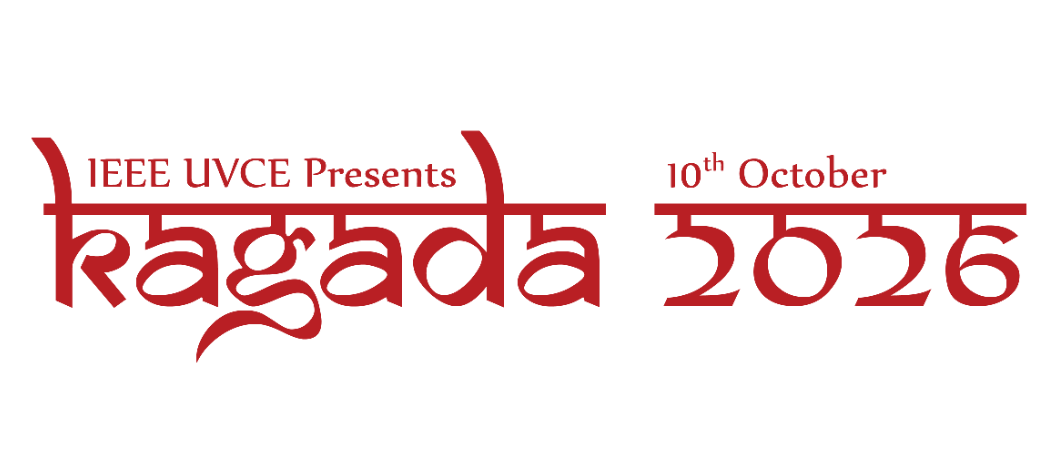
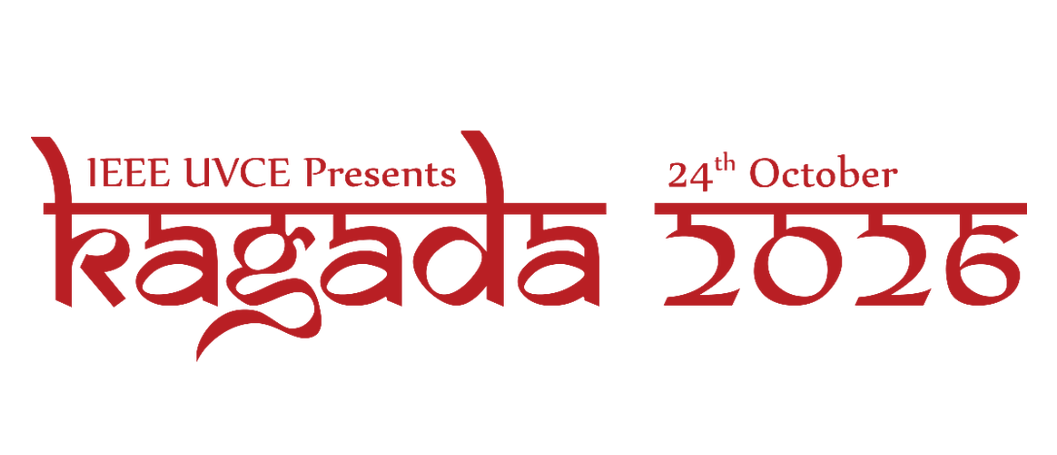
fix(event): reschedule KAGADA to 24th October 2026, update navbar header and countdown timer

diff --git a/app/api/chat/route.ts b/app/api/chat/route.ts
@@ -12,7 +12,7 @@ YOUR STRICT DIRECTIVES:
 
 KAGADA 2026 COMPREHENSIVE KNOWLEDGE BASE:
 - Event Name: KAGADA 2026 (22nd Annual National-Level Technical Student Conference)
-- Provisional Event Date: 10th October, 2026
+- Provisional Event Date: 24th October, 2026
 - Venue: University Visvesvaraya College of Engineering (UVCE), K.R. Circle, Bengaluru, Karnataka 560001
 - Organizer: IEEE UVCE (Institute of Electrical and Electronics Engineers - UVCE Student Branch)
 - Total Prize Pool: Overall ₹40,000 cash prizes distributed across Paper, Poster, and Project presentations (provisional).
@@ -149,10 +149,10 @@ export async function POST(req: Request) {
 
     // Fallback: Local Instant KAGADA 2026 Knowledge Engine
     const lastUserMsgLower = userMessage.toLowerCase();
-    let localReply = "KAGADA 2026 is the 22nd Annual National-Level Technical Student Conference conducted by IEEE UVCE on 10th October, 2026 at UVCE KR Circle, Bengaluru. We have 3 tracks: Paper, Poster, and Project presentations with an overall ₹40,000 total prize pool.";
+    let localReply = "KAGADA 2026 is the 22nd Annual National-Level Technical Student Conference conducted by IEEE UVCE on 24th October, 2026 at UVCE KR Circle, Bengaluru. We have 3 tracks: Paper, Poster, and Project presentations with an overall ₹40,000 total prize pool.";
 
     if (lastUserMsgLower.includes("when") || lastUserMsgLower.includes("date") || lastUserMsgLower.includes("time")) {
-      localReply = "The provisional date for KAGADA 2026 is 10th October, 2026 at UVCE, KR Circle, Bengaluru.";
+      localReply = "The provisional date for KAGADA 2026 is 24th October, 2026 at UVCE, KR Circle, Bengaluru.";
     } else if (lastUserMsgLower.includes("where") || lastUserMsgLower.includes("venue") || lastUserMsgLower.includes("location") || lastUserMsgLower.includes("map")) {
       localReply = "KAGADA 2026 will take place at University Visvesvaraya College of Engineering (UVCE), K.R. Circle, Bengaluru, Karnataka 560001.";
     } else if (lastUserMsgLower.includes("prize") || lastUserMsgLower.includes("money") || lastUserMsgLower.includes("reward") || lastUserMsgLower.includes("cash")) {
@@ -171,7 +171,7 @@ export async function POST(req: Request) {
   } catch (error) {
     console.error("AI Chat Route Error:", error);
     return NextResponse.json(
-      { reply: "KAGADA 2026 is provisionally scheduled for 10th October 2026 at UVCE, KR Circle, Bengaluru. Feel free to ask about tracks, prize pool, or venue details.", model: "Error Fallback" },
+      { reply: "KAGADA 2026 is provisionally scheduled for 24th October 2026 at UVCE, KR Circle, Bengaluru. Feel free to ask about tracks, prize pool, or venue details.", model: "Error Fallback" },
       { status: 200 }
     );
   }

diff --git a/components/sections/AboutSection.tsx b/components/sections/AboutSection.tsx
@@ -107,7 +107,7 @@ function renderAboutCard(item: CardStackItem) {
           {/* Left Text Column */}
           <div className="lg:col-span-7 font-jakarta text-xs sm:text-sm lg:text-base text-slate-900/90 leading-relaxed font-medium space-y-1.5 sm:space-y-2.5">
             <p>
-              <strong className="font-extrabold text-slate-950">KAGADA</strong> is our esteemed <strong className="font-bold text-slate-950">Annual National-Level Technical Student Conference</strong>, showcasing <strong className="font-bold text-slate-950">Paper, Poster and Project Presentations</strong>. Its 22nd edition is set for <strong className="font-bold text-slate-950">October 10, 2026</strong>. At IEEE UVCE, we are dedicated to expanding technical knowledge beyond the classroom. KAGADA, recognized with the <strong className="font-bold text-slate-950">Darrel Chong Student Activity Award</strong> in both 2016 and 2019, aims to inspire students to pursue research during their undergraduate studies. This conference provides an engaging platform for motivated students to <strong className="font-bold text-slate-950">sharpen their technical skills, improve their presentation abilities and share innovative ideas</strong>.
+              <strong className="font-extrabold text-slate-950">KAGADA</strong> is our esteemed <strong className="font-bold text-slate-950">Annual National-Level Technical Student Conference</strong>, showcasing <strong className="font-bold text-slate-950">Paper, Poster and Project Presentations</strong>. Its 22nd edition is set for <strong className="font-bold text-slate-950">October 24, 2026</strong>. At IEEE UVCE, we are dedicated to expanding technical knowledge beyond the classroom. KAGADA, recognized with the <strong className="font-bold text-slate-950">Darrel Chong Student Activity Award</strong> in both 2016 and 2019, aims to inspire students to pursue research during their undergraduate studies. This conference provides an engaging platform for motivated students to <strong className="font-bold text-slate-950">sharpen their technical skills, improve their presentation abilities and share innovative ideas</strong>.
             </p>
             <p className="text-slate-800">
               Additionally, KAGADA features initiatives like &quot;<strong className="font-bold text-slate-950">Ottige Kaliyona</strong>,&quot; which teaches government school students to utilize technology and &quot;<strong className="font-bold text-slate-950">Food For Cause</strong>,&quot; a charitable project where profits from a food stall are donated to an orphanage.

diff --git a/app/layout.tsx b/app/layout.tsx
@@ -38,7 +38,7 @@ export const metadata: Metadata = {
   metadataBase: new URL("https://kagada2026.live"),
   title: "KAGADA 2026",
   description:
-    "What is KAGADA and when is it? KAGADA is an Annual National-Level Technical Student Conference conducted by IEEE UVCE. It will be held on 10th October, 2026 at UVCE, Bengaluru.",
+    "What is KAGADA and when is it? KAGADA is an Annual National-Level Technical Student Conference conducted by IEEE UVCE. It will be held on 24th October, 2026 at UVCE, Bengaluru.",
   keywords: [
     "KAGADA",
     "KAGADA 2026",
@@ -53,7 +53,7 @@ export const metadata: Metadata = {
   openGraph: {
     title: "KAGADA 2026",
     description:
-      "What is KAGADA and when is it? KAGADA is an Annual National-Level Technical Student Conference conducted by IEEE UVCE. It will be held on 10th October, 2026 at UVCE, Bengaluru.",
+      "What is KAGADA and when is it? KAGADA is an Annual National-Level Technical Student Conference conducted by IEEE UVCE. It will be held on 24th October, 2026 at UVCE, Bengaluru.",
     url: "https://kagada2026.live",
     siteName: "KAGADA 2026",
     images: [
@@ -81,7 +81,7 @@ export const metadata: Metadata = {
     card: "summary_large_image",
     title: "KAGADA 2026",
     description:
-      "What is KAGADA and when is it? KAGADA is an Annual National-Level Technical Student Conference conducted by IEEE UVCE. It will be held on 10th October, 2026 at UVCE, Bengaluru.",
+      "What is KAGADA and when is it? KAGADA is an Annual National-Level Technical Student Conference conducted by IEEE UVCE. It will be held on 24th October, 2026 at UVCE, Bengaluru.",
     images: ["/logo1.png"],
   },
   alternates: {
@@ -106,9 +106,9 @@ const structuredData = [
     "@type": "EducationEvent",
     name: "KAGADA 2026",
     description:
-      "What is KAGADA and when is it? KAGADA is an Annual National-Level Technical Student Conference conducted by IEEE UVCE. It will be held on 10th October, 2026 at UVCE, Bengaluru.",
-    startDate: "2026-10-10T09:00:00+05:30",
-    endDate: "2026-10-10T18:00:00+05:30",
+      "What is KAGADA and when is it? KAGADA is an Annual National-Level Technical Student Conference conducted by IEEE UVCE. It will be held on 24th October, 2026 at UVCE, Bengaluru.",
+    startDate: "2026-10-24T09:00:00+05:30",
+    endDate: "2026-10-24T18:00:00+05:30",
     eventStatus: "https://schema.org/EventScheduled",
     eventAttendanceMode: "https://schema.org/MixedEventAttendanceMode",
     location: {

diff --git a/components/features/AIChatCard.tsx b/components/features/AIChatCard.tsx
@@ -100,7 +100,7 @@ export default function AIChatCard({ className, isVisible = true }: AIChatCardPr
       });
 
       const data = await res.json();
-      const aiReply = data?.reply || "KAGADA 2026 is provisionally scheduled for 10th October 2026 at UVCE, KR Circle, Bengaluru!";
+      const aiReply = data?.reply || "KAGADA 2026 is provisionally scheduled for 24th October 2026 at UVCE, KR Circle, Bengaluru!";
       const modelUsed = data?.model || "Unknown Model";
 
       if (process.env.NODE_ENV !== "production") {
@@ -114,7 +114,7 @@ export default function AIChatCard({ className, isVisible = true }: AIChatCardPr
         ...prev,
         {
           sender: "ai",
-          text: "KAGADA 2026 is provisionally scheduled for 10th October 2026 at UVCE, KR Circle. Ask me about tracks (Paper, Poster, Project) or the ₹40,000 prize pool!",
+          text: "KAGADA 2026 is provisionally scheduled for 24th October 2026 at UVCE, KR Circle. Ask me about tracks (Paper, Poster, Project) or the ₹40,000 prize pool!",
         },
       ]);
     } finally {

diff --git a/data/kagada-data.ts b/data/kagada-data.ts
@@ -2,7 +2,7 @@ import { FileText, Image as ImageIcon, Cpu, Sparkles, Heart } from "lucide-react
 import { CardStackItem } from "@/components/ui/card-stack";
 import { TimelineItem } from "@/components/ui/radial-orbital-timeline";
 
-export const KAGADA_EVENT_DATE = new Date("2026-10-10T00:00:00+05:30");
+export const KAGADA_EVENT_DATE = new Date("2026-10-24T00:00:00+05:30");
 
 // Exactly 3 Rich About Section Cards
 export const ABOUT_CARDS: CardStackItem[] = [

diff --git a/components/sections/FAQSection.tsx b/components/sections/FAQSection.tsx
@@ -16,7 +16,7 @@ const FAQS: FAQItem[] = [
   {
     question: "What is KAGADA and when is it?",
     answer:
-      "KAGADA is an Annual National-Level Technical Student Conference conducted by IEEE UVCE. It will be held on 10th October, 2026.",
+      "KAGADA is an Annual National-Level Technical Student Conference conducted by IEEE UVCE. It will be held on 24th October, 2026.",
   },
   {
     question: "What can I present in KAGADA?",
